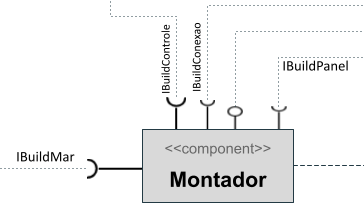
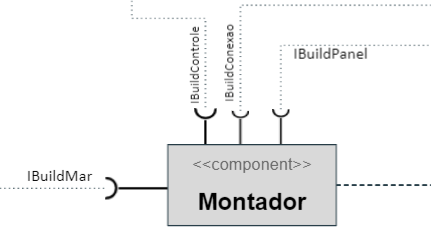
Adicionando IBuildConexao e removendo IGetMapa

diff --git a/BomberShip/src/src/conexaoComponent/Conexao.java b/BomberShip/src/src/conexaoComponent/Conexao.java
@@ -6,7 +6,7 @@ import java.io.IOException;
 import java.net.InetAddress;
 import java.net.ServerSocket;
 import java.net.Socket; 
-public class Conexao {
+public class Conexao implements IBuildConexao {
 
 	public DataOutputStream dos;
 	public DataInputStream dis;
@@ -28,6 +28,10 @@ public class Conexao {
 		conexaoAceita = false;
 
 	}
+	
+	public String getPlayer() {
+		return Player;
+	}
 
 	public boolean conecta() {
 		try {
@@ -37,7 +41,7 @@ public class Conexao {
 			conexaoAceita = true;
 			System.out.println("Estamos conectados!");
 			
-		} catch (IOException e) {
+		} catch (IOException e) { //nullServer
 			System.out.println("Ainda nao existe: " + ip + ":" + porta + " | Estamos criando um Server...");
 			return false;
 		}
@@ -54,7 +58,7 @@ public class Conexao {
 			this.Player = "Host";
 			aguardaServerRequest();
 
-		} catch (Exception e) {
+		} catch (Exception e) { //invalidServer
 			e.printStackTrace();
 		}
 
@@ -70,7 +74,7 @@ public class Conexao {
 			conexaoAceita = true;
 			System.out.println("Aceitamos o cliente");
 
-		} catch (IOException e) {
+		} catch (IOException e) { //InvalidClient
 			e.printStackTrace();
 		}
 	}
@@ -81,7 +85,7 @@ public class Conexao {
 			dos.writeUTF(jogada);
 			dos.flush();
 			System.out.println("DATA WAS SENT");
-		} catch (IOException e) {
+		} catch (IOException e) { //InvalidMove && InvalidEnemy
 			erros++;
 			e.printStackTrace();
 		}
@@ -95,7 +99,7 @@ public class Conexao {
 				return dis.readUTF();
 			}
 
-		} catch (IOException e) {
+		} catch (IOException e) { //InvalidEnemy
 			System.out.println("o Outro usuario saiu da partida, Fim de Jogo!");
 			return "fimDeJogo";
 		}
@@ -111,6 +115,10 @@ public class Conexao {
 	public void SetMar(String Mar) {
 		enviaDados(Mar);
 		
+	}
+
+	public Conexao getThis() { 
+		return this;
 	}
 
 }

diff --git a/BomberShip/src/src/montadorComponent/Montador.java b/BomberShip/src/src/montadorComponent/Montador.java
@@ -4,19 +4,15 @@ import java.io.File;
 import java.net.URISyntaxException;
 import java.net.URL;
 import java.nio.file.Paths;
-
-import conexaoComponent.Conexao;
-import controleComponent.InController;
-import controleComponent.Time;
-import controleComponent.outController;
+import conexaoComponent.*;
+import controleComponent.*;
 import main.TelaJogo;
-import marComponent.Celula.Agua;
-import marComponent.Celula.Celula;
+import marComponent.Celula.*;
 import marComponent.Mar.Mar;
 
 public class Montador {
 
-	Conexao conexao;
+	IBuildConexao conexao;
 	private Mar marAliado;
 	private Mar marInimigo;
 	private Celula[][] celulasConstrutor;
@@ -34,7 +30,7 @@ public class Montador {
 			if (!conexao.conecta())
 				conexao.iniciaServer();
 
-			String Arq = getMapa(conexao.Player);
+			String Arq = getMapa(conexao.getPlayer());
 
 			marAliado = criaMar(marAliado, Time.Aliado);
 			marAliado = leArquivo(Arq, marAliado);
@@ -44,15 +40,15 @@ public class Montador {
 			conexao.SetMar(Arq);
 			arqInimigo = conexao.getMarInimigo();
 
-			controle = new outController(conexao);
+			controle = new outController(conexao.getThis());
 
 			marInimigo = criaMar(marInimigo, Time.Inimigo);
 			marInimigo = leArquivo(arqInimigo, marInimigo);
 			marInimigo = montaMar(marInimigo);
 
-			new TelaJogo(marAliado, marInimigo, conexao.Player);
+			new TelaJogo(marAliado, marInimigo, conexao.getPlayer());
 
-			Thread recebeInput = new Thread(new InController(conexao, marAliado));
+			Thread recebeInput = new Thread(new InController(conexao.getThis(), marAliado));
 			recebeInput.start();
 
 		} catch (URISyntaxException e) {

diff --git a/BomberShip/src/src/conexaoComponent/IBuildConexao.java b/BomberShip/src/src/conexaoComponent/IBuildConexao.java
@@ -1,5 +1,15 @@
 package conexaoComponent;
 
 public interface IBuildConexao {
+	
+	public boolean conecta();
+	public void iniciaServer();
+	public void SetMar(String arq);
+	public String getPlayer();
+	public String getMarInimigo();
+	public Conexao getThis();
 
 }
+
+
+ 

diff --git a/BomberShip/README.md b/BomberShip/README.md
@@ -127,12 +127,8 @@ item | detalhamento
 ----- | -----
 Classe | `montadorComponent`
 Autores | `Erica e Henrique`
-Interfaces | `IGetMapa`
-
-### Interfaces
-
-Interfaces associadas a esse componente:
-
+Interfaces | `-`
+ 
  
 
 ## Detalhamento das Interfaces
@@ -266,7 +262,16 @@ Método | Objetivo
 `Interface responsável criar a conexao .`
 
 ~~~
-<Interface em Java.>
+public interface IBuildConexao {
+	
+	public boolean conecta();
+	public void iniciaServer();
+	public void SetMar(String arq);
+	public String getPlayer();
+	public String getMarInimigo();
+	public Conexao getThis();
+
+}
 ~~~
 
 Método | Objetivo
@@ -296,19 +301,6 @@ Método | Objetivo
 Método | Objetivo
 -------| --------
 `<id do método em Java>` | `<objetivo do método e descrição dos parâmetros>`
-
-### Interface `IGetMapa`
-
-`Interface responsável por receber o mapa inimigo.`
-
-~~~
-<Interface em Java.>
-~~~
-
-Método | Objetivo
--------| --------
-`<id do método em Java>` | `<objetivo do método e descrição dos parâmetros>`
-
 
 
  
